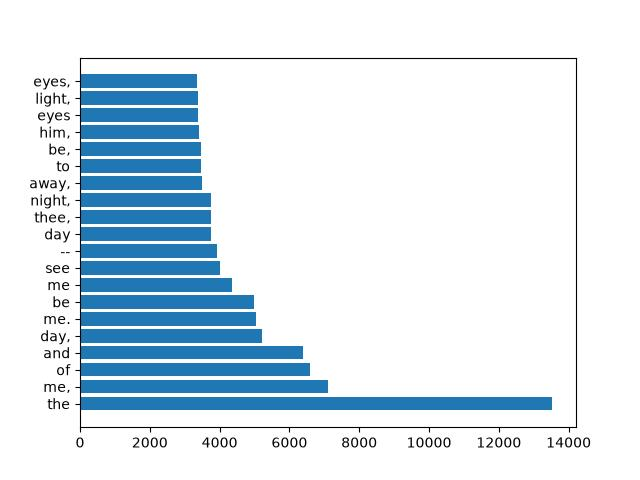
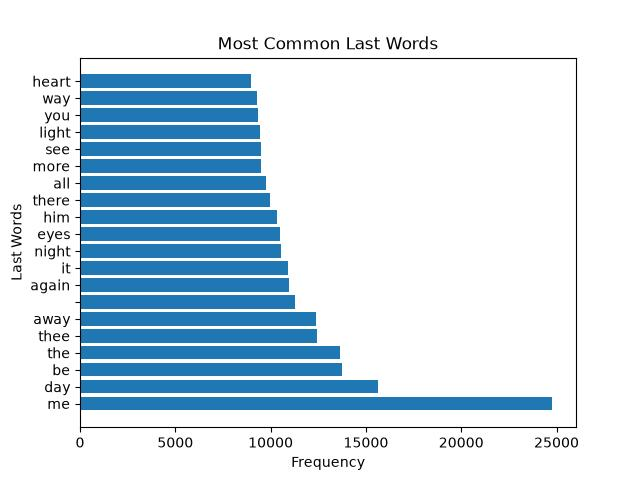
plot 3

diff --git a/corpus.py b/corpus.py
@@ -2,17 +2,22 @@ import gzip
 import json
 import matplotlib.pyplot as plt
 from collections import Counter
+import string
 
 path = "data/gutenberg-poetry-v001.ndjson.gz"
 corpus = gzip.open(path, "rt")
 numbers =[]
 longlines = []
 lastwords =[]
+firstwords = []
+allwords = []
 
 for row in corpus:
         d = json.loads(row)
         numbers.append(len(d["s"]))
-        lastwords.append(d["s"].lower().split(" ")[-1])
+        lastwords.append(d["s"].lower().strip(string.punctuation).split(" ")[-1])
+        firstwords.append(d["s"].lower().strip(string.punctuation).split(" ")[0])
+        allwords.append(d["s"].lower().strip(string.punctuation).split(" "))
 
         if len(d["s"]) >= 65:
             longlines.append(d["s"])
@@ -21,12 +26,21 @@ cnt = Counter(lastwords).most_common(20)
 topwords =[]
 topwordscounts = []
 
+firstcnt = Counter(firstwords).most_common(20)
+topfirstwords =[]
+topfirstwordscounts = []
+
+commoncnt = Counter(allwords).most_common(20)
+#topfirstwords =[]
+#topfirstwordscounts = []
+
 for item in cnt:
      topwords.append(item[0])
      topwordscounts.append(item[1])
-print(cnt)
-print(topwords)
-print(topwordscounts)
+
+for item in firstcnt:
+     topfirstwords.append(item[0])
+     topfirstwordscounts.append(item[1])
 
 plt.hist(numbers, bins=30, edgecolor="black", color = "green")
 plt.title("Distribution of Line Lengths")
@@ -34,12 +48,23 @@ plt.xlabel("Line length")
 plt.ylabel("Number of lines")
 output_dir = "plots/line_lengths.jpg"
 plt.savefig(output_dir)
-plt.show()
+#plt.show()
 
-output_dir2 = "plots/common_words.jpg"
+output_dir2 = "plots/last_words.jpg"
 plt.barh(topwords, topwordscounts)
+plt.title("Most Common Last Words")
+plt.xlabel("Frequency")
+plt.ylabel("Last Words")
 plt.savefig(output_dir2)
-plt.show()
+#plt.show()
+
+output_dir3 = "plots/first_words.jpg"
+plt.barh(topfirstwords, topfirstwordscounts)
+plt.title("Most Common First Words")
+plt.xlabel("Frequency")
+plt.ylabel("First Words")
+plt.savefig(output_dir3)
+#plt.show()
 
 
 

diff --git a/commonplace.md b/commonplace.md
@@ -894,3 +894,25 @@ For the cut:
 Hard to say, tough chewing, and a tired image (wears no wings)
 
 https://poets.org/poem/ivy-green
+
+
+# 2026-10-12 · Charles Dickens, "The Ivy Green"
+
+Steal: 
+touched my tongue to the rough
+of his tongue, slicked the dark
+underside of him
+
+Cut:
+Red witch roaming the scorched house
+of fires I have been, fires I have built,
+
+The why:
+
+For the steal:
+Very original, haven't ever imagined what a lion's tongue feels like, let alone imagined its underside. Takes a well-worn image (a lion's mouth) and makes it new
+
+For the cut:
+Forced (red, fires, witches), feels melodramatic or too fantastic in a way that breaks the spell.
+
+https://poets.org/poem/ivy-green
